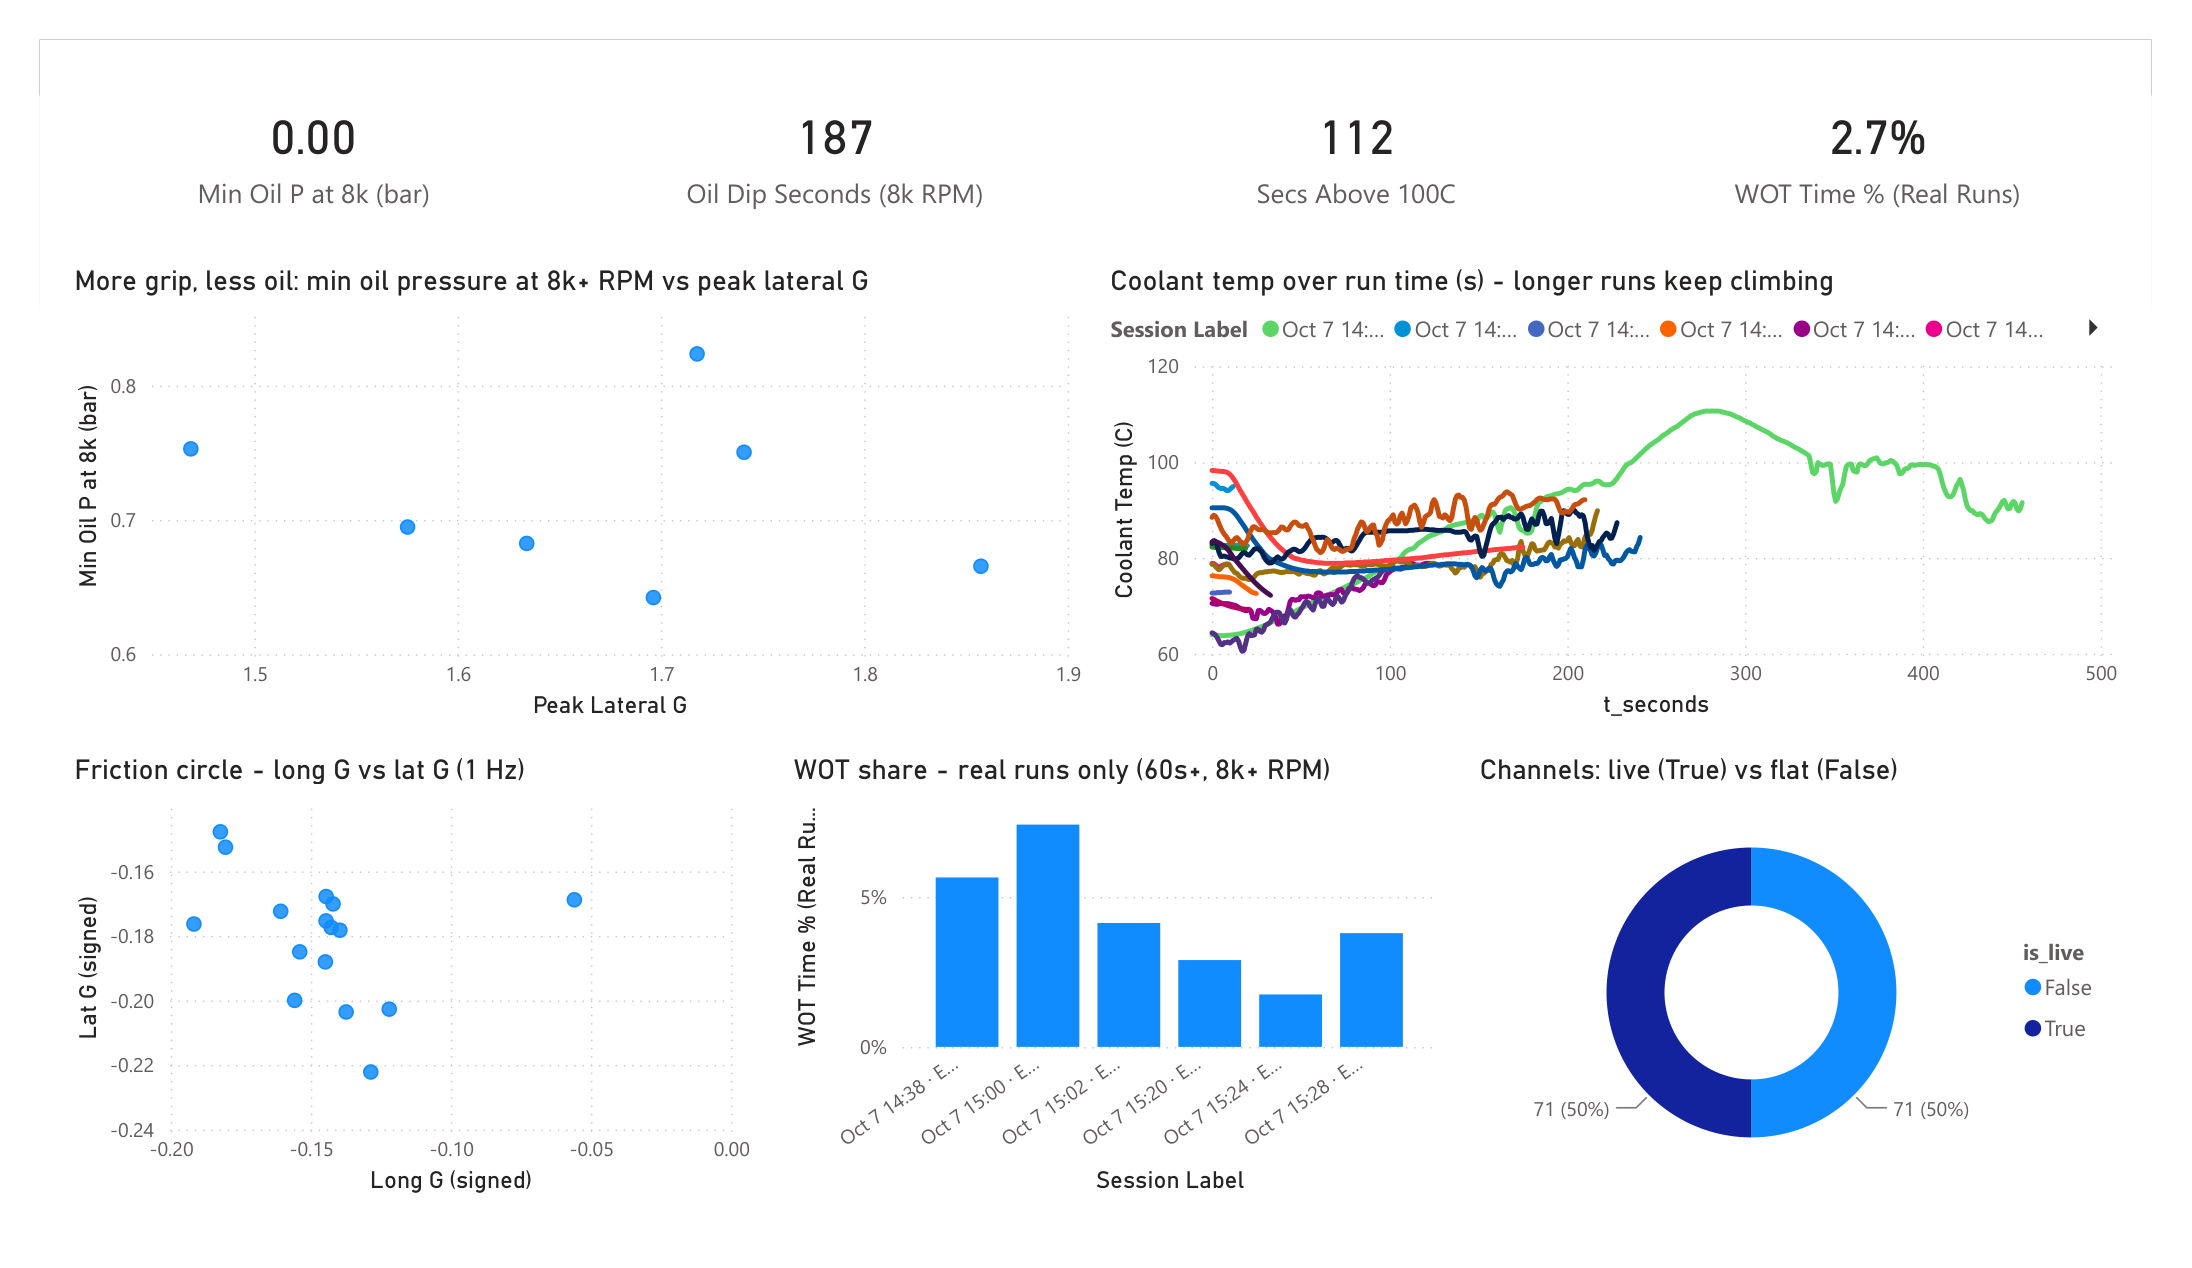
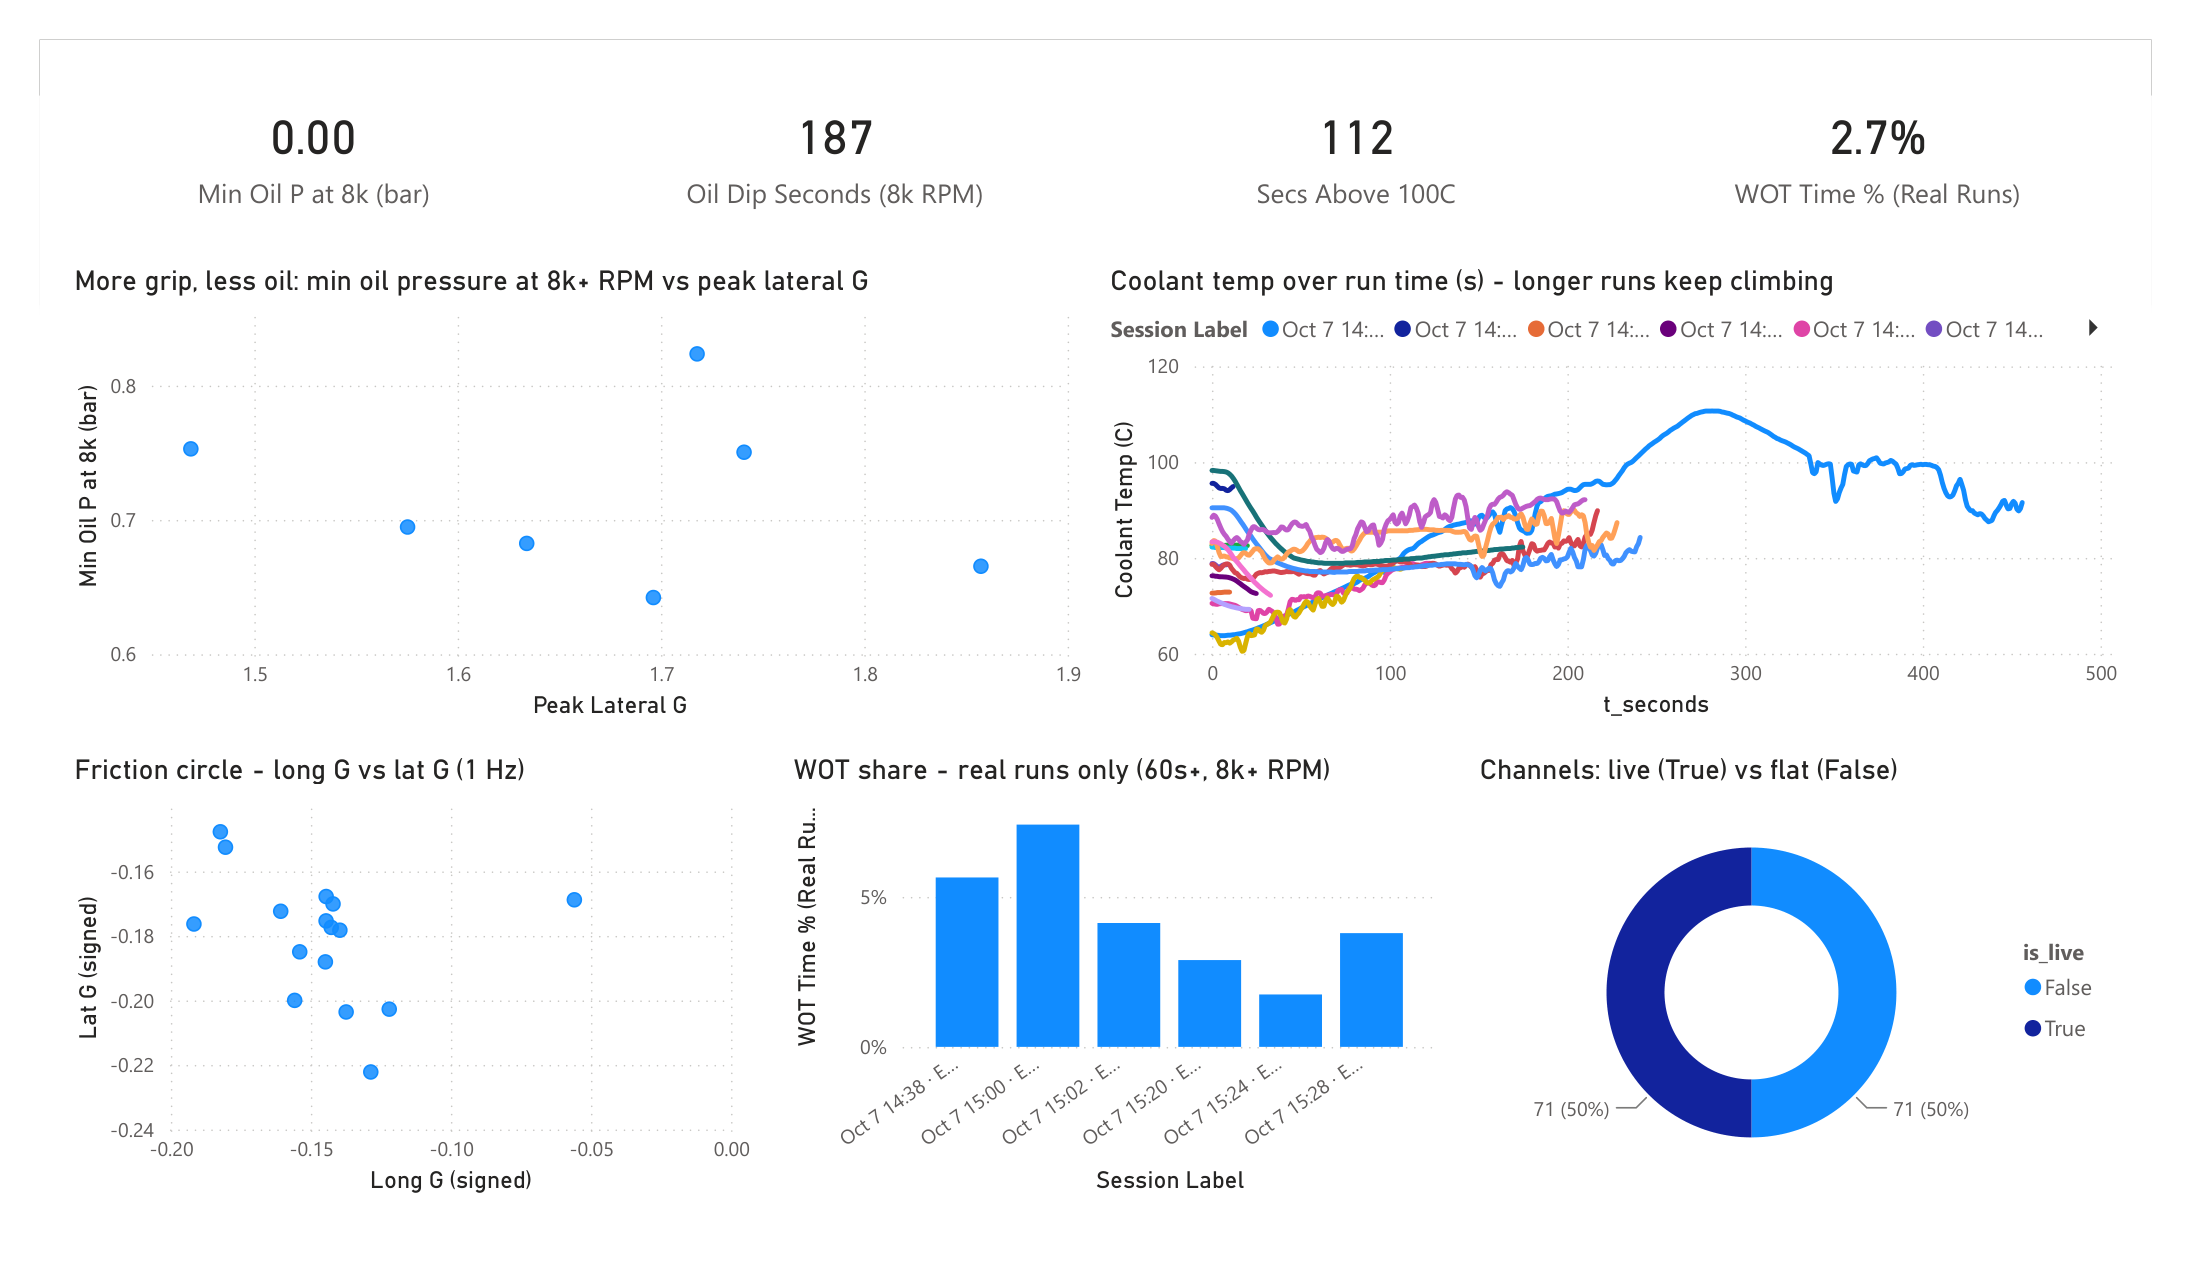
fix(tests): run db tests against a separate database, refresh screenshots

diff --git a/tests/conftest.py b/tests/conftest.py
@@ -1,7 +1,9 @@
+import psycopg
 import pytest
 
 import config
-from db.connection import Database
+from db.connection import Database, TimescaleConfig
+from db.schema_manager import SchemaManager
 from parser.aim_parser import AimParser
 
 SESSION_1 = config.RAW_DIR / "2023" / "1.csv"
@@ -19,10 +21,23 @@ def parsed():
     return AimParser().parse(SESSION_1)
 
 
+def _ensure_test_database(cfg: TimescaleConfig):
+    admin = TimescaleConfig(dbname="postgres", user=cfg.user, password=cfg.password,
+                            host=cfg.host, port=cfg.port)
+    with psycopg.connect(admin.dsn(), autocommit=True) as conn:
+        exists = conn.execute(
+            "SELECT 1 FROM pg_database WHERE datname = %s", (cfg.dbname,)
+        ).fetchone()
+        if not exists:
+            conn.execute(f'CREATE DATABASE "{cfg.dbname}"')
+
+
 @pytest.fixture(scope="session")
 def database():
-    db = Database()
+    cfg = TimescaleConfig(dbname=config.TEST_DB_NAME)
     try:
+        _ensure_test_database(cfg)
+        db = Database(cfg)
         with db.connection() as conn:
             available = conn.execute(
                 "SELECT 1 FROM pg_available_extensions WHERE name = 'timescaledb'"
@@ -31,5 +46,6 @@ def database():
         pytest.skip(f"no database available: {e}")
     if available is None:
         pytest.skip("timescaledb extension not available")
+    SchemaManager(db).apply()
     yield db
     db.close()

diff --git a/tests/test_parity.py b/tests/test_parity.py
@@ -54,7 +54,10 @@ def loaded_db(database):
         n = repo.copy_readings(conn, parsed.session.session_id, parsed.readings)
         repo.log_ingestion(conn, parsed.packet_id, "1", "2023/1.csv", parsed.row_count, n)
     sm.refresh_views()
+    # app.db is module-level, so point it at the test database or the API reads the dev one
+    original, app.db = app.db, database
     yield database
+    app.db = original
     with database.connection() as conn:
         _purge(conn)
 

diff --git a/config.py b/config.py
@@ -19,3 +19,6 @@ DB_USER = os.environ.get("PGUSER", "fsae")
 DB_PASSWORD = os.environ.get("PGPASSWORD", "fsae2023")
 DB_HOST = os.environ.get("PGHOST", "localhost")
 DB_PORT = int(os.environ.get("PGPORT", "5432"))
+
+# db tests delete rows, so they must never point at the database a developer is using
+TEST_DB_NAME = os.environ.get("PGDATABASE_TEST", f"{DB_NAME}_test")

diff --git a/README.md b/README.md
@@ -180,6 +180,10 @@ Tests that need a database are marked `db` automatically: `conftest.py` tags any
 test reaching for the `database` or `loaded_db` fixture, so the marker cannot
 drift from reality. They skip when no TimescaleDB is reachable.
 
+Those tests delete rows, so they run against their own database, `<PGDATABASE>_test`
+(override with `PGDATABASE_TEST`), created on first use. Running `pytest` never
+touches the database you ingest into.
+
 CI (`.github/workflows/tests.yml`) runs three jobs:
 
 - `lint`: `ruff check`.
